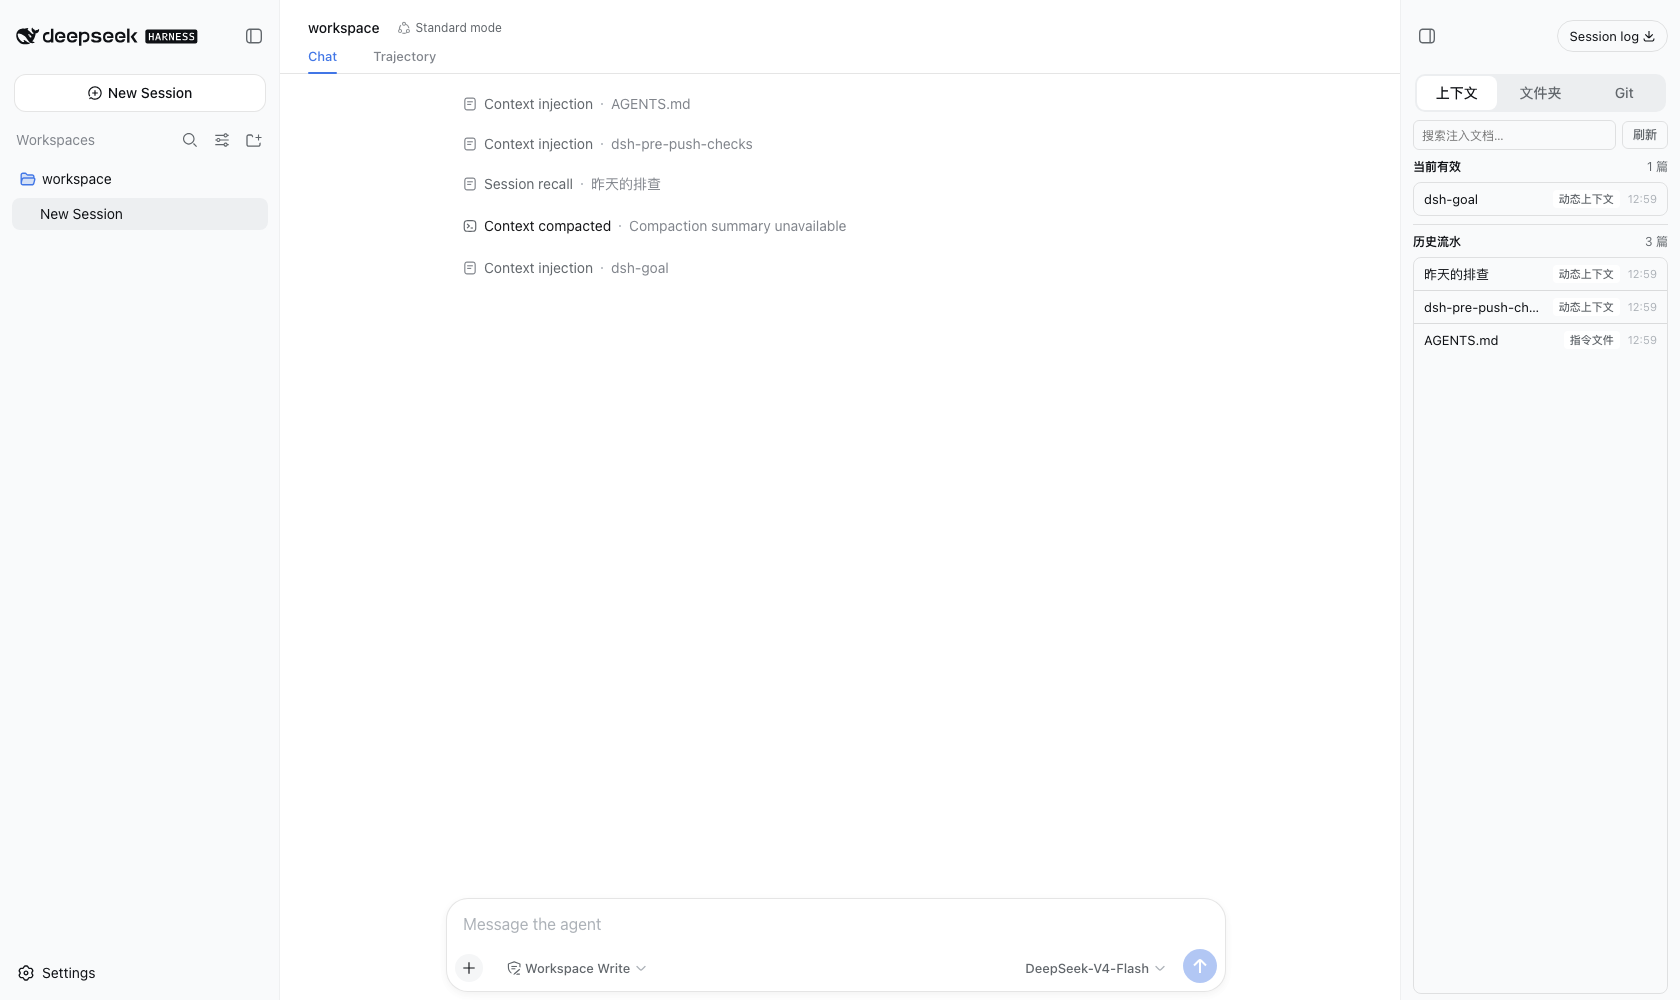
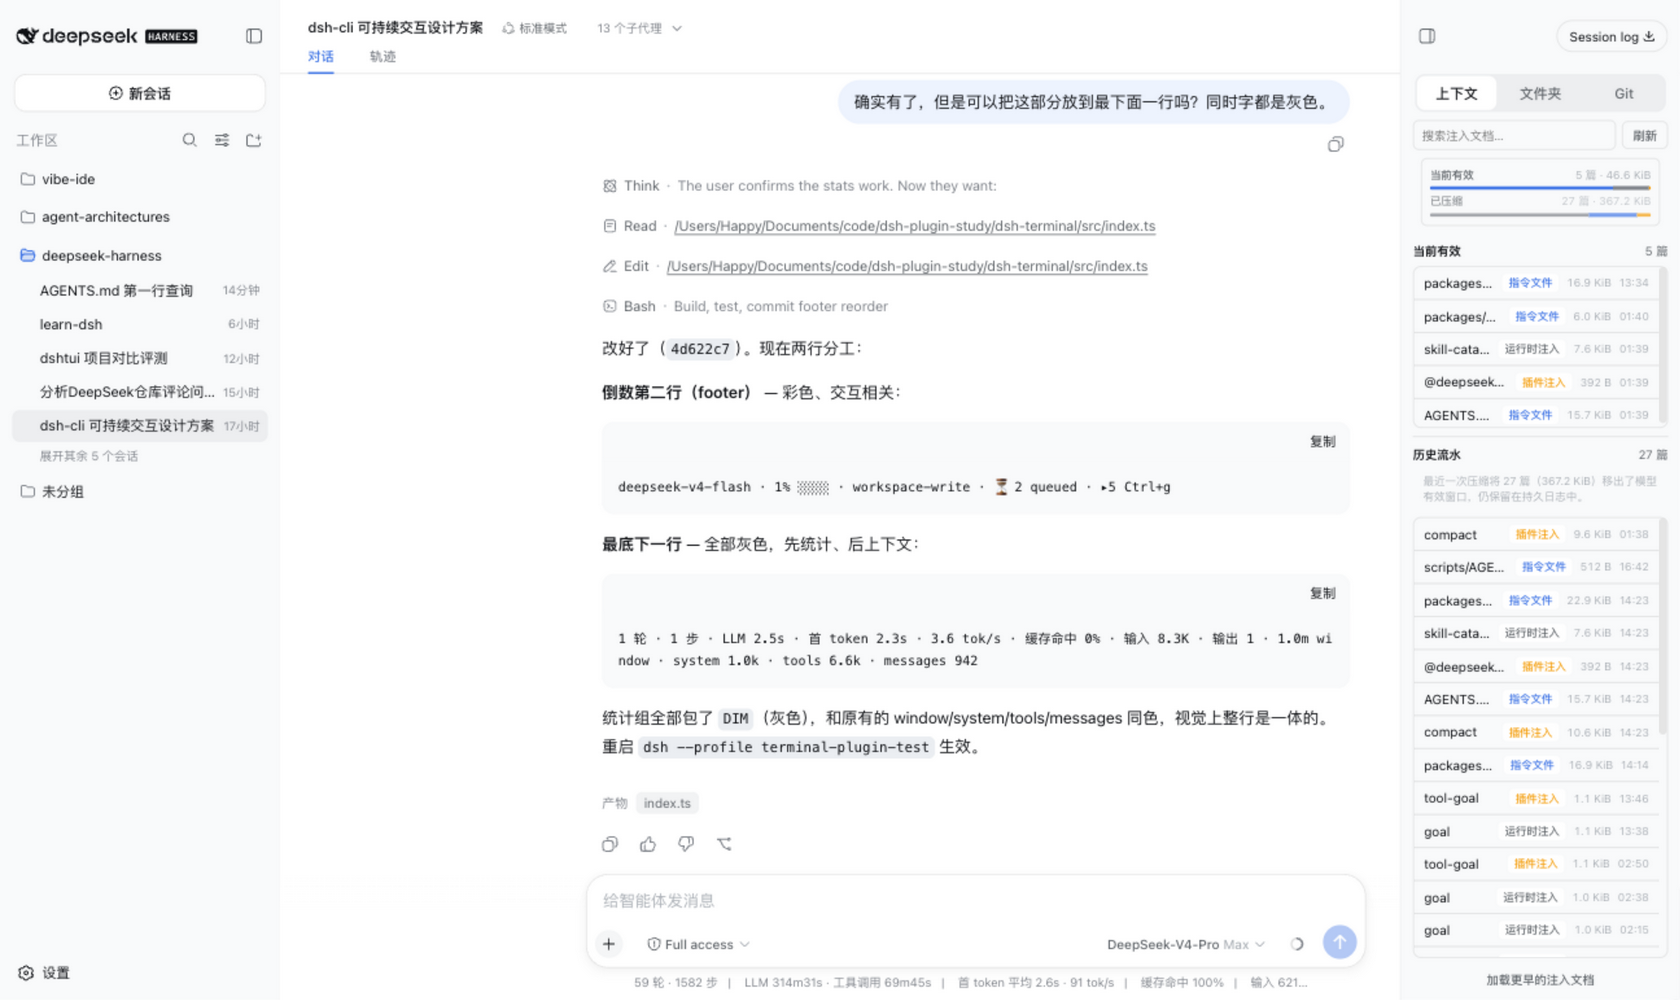
docs: regenerate the context-tab screenshot from the live v0.14 panel
Real session data (12-hour conversation): occupancy strip with both
sections, origin badges with measured sizes, the compaction notice.

diff --git a/README.md b/README.md
@@ -37,7 +37,7 @@ On the fork the output must contain the `ui-context-files`, `git`, `directory-ro
 
 **Context tab** — injected-context documents split into the live window and the compaction history stream, with search over both; the view re-projects live and pulls the complete history out-of-band on activation (up to 1,000 messages, the conversation window untouched), so both sections hold the complete log. Since v0.14 an **occupancy strip** heads the view (measured bytes per section, colored by origin class — instructions / skill / plugin / cross-session recall / runtime), every row carries its **origin badge and measured size**, the history section names **the latest compaction** (how many documents and bytes it moved out of the live window), and while the context tab is inactive new injections and boundary moves badge the tab with an **unread count** (cleared on open; a dot marks it when the panel is collapsed):
 
-![Context tab](screenshots/03-context-tab.png?v=3)
+![Context tab](screenshots/03-context-tab.png?v=4)
 
 **Directories first** — symlinked directories sort with the directories group:
 

diff --git a/README.zh.md b/README.zh.md
@@ -37,7 +37,7 @@ fork 上输出里必须包含 `ui-context-files`、`git`、`directory-routes`、
 
 **上下文标签** — 注入上下文文档分为当前有效窗口与压缩历史流水，带搜索；视图随会话事件流实时重投影，会话激活时带外拉取完整历史（最多 1,000 条消息，不动共享对话窗口），两个区块持有完整日志。v0.14 起标签头新增**占用条**（按字节实测的窗口占用，分指令文件/技能/插件/跨会话召回/运行时五类来源着色）、每篇文档带**来源标注与实测大小**、历史流水头部注明**最近一次压缩**移出的篇数与体量；不在上下文标签时，新注入与压缩边界移动会让「上下文」标签页带**未读计数**徽标（打开即清零，折叠态显示圆点）：
 
-![上下文标签](screenshots/03-context-tab.png?v=3)
+![上下文标签](screenshots/03-context-tab.png?v=4)
 
 **目录优先** — 指向目录的符号链接与目录同组排序：
 
